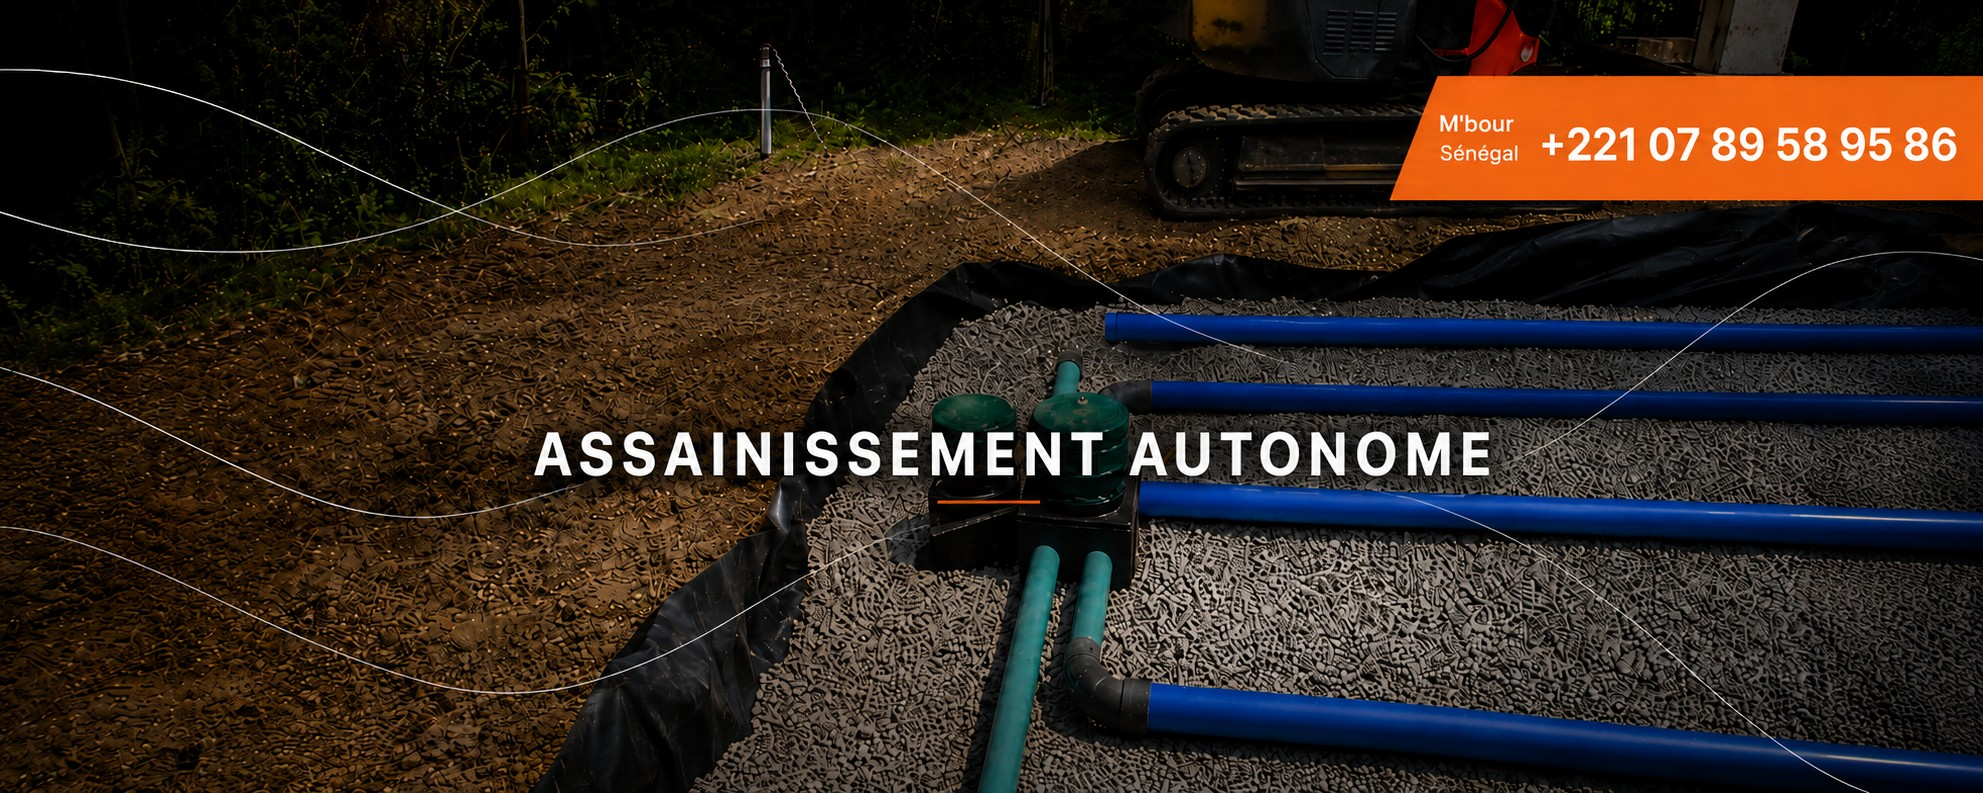
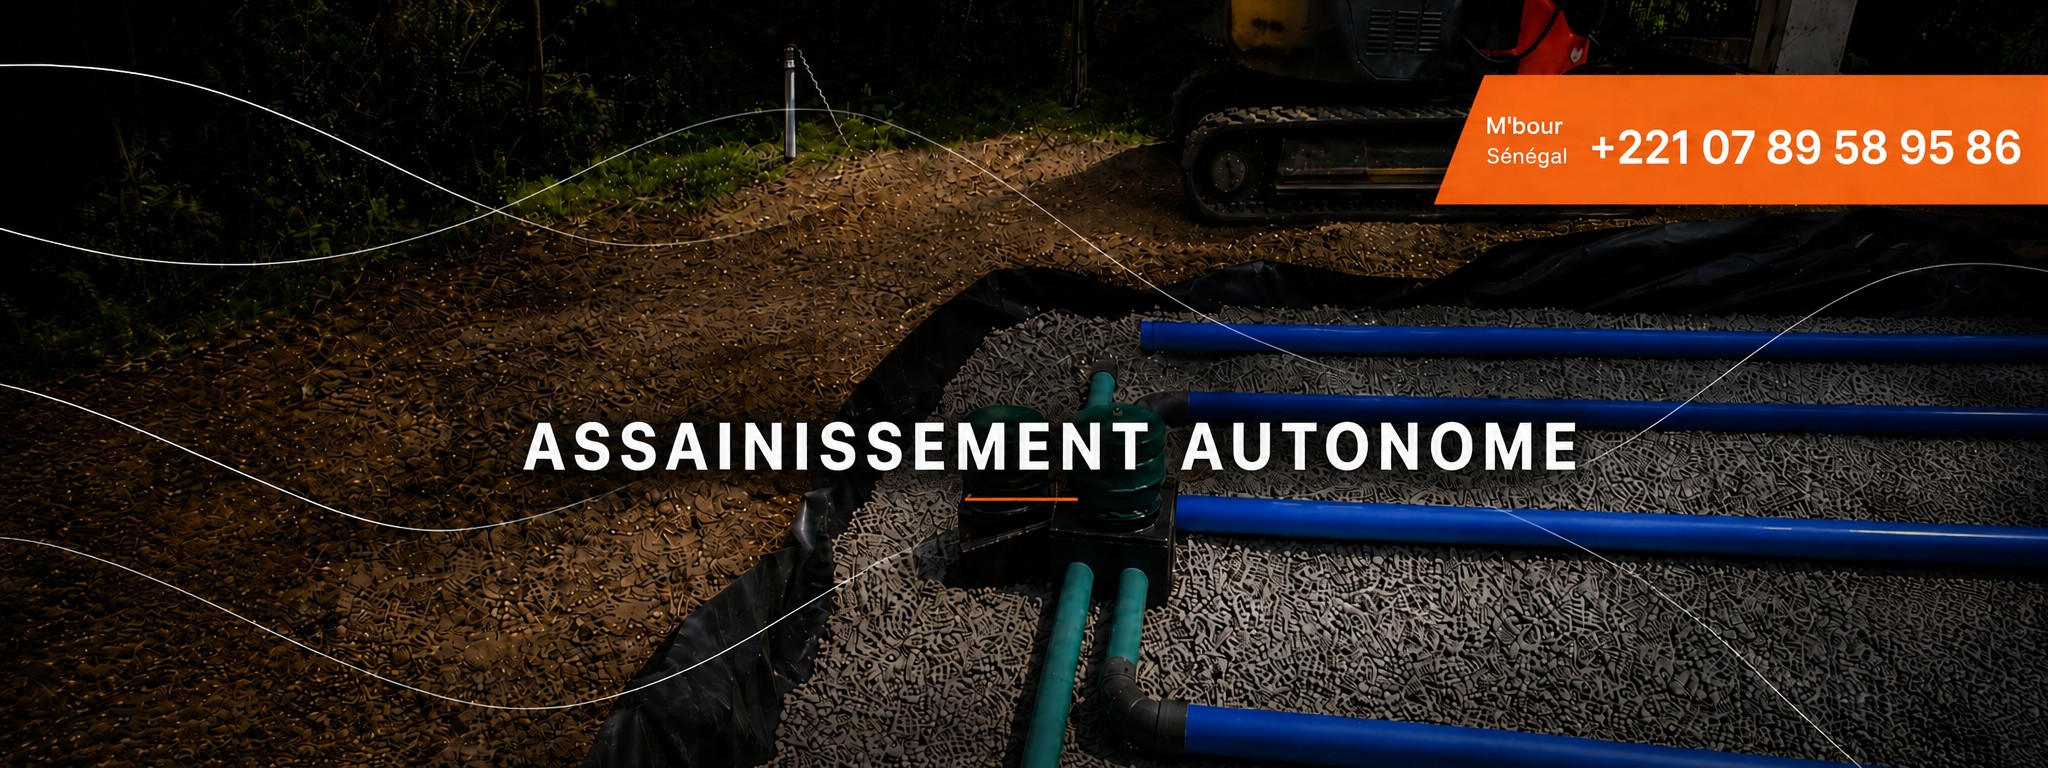
Add files via upload

diff --git a/style.css b/style.css
@@ -1483,3 +1483,16 @@ body:not(.prest-page):not(.contact-page):not(.actualites-page):not(.legal-page) 
     min-height: 520px !important;
   }
 }
+/* Bulle Coordonnées — page contact */
+.contact-page .contact-info__block .section-kicker {
+  display: flex;
+  width: fit-content;
+  margin: 0 auto 22px;
+  padding: 0 24px;
+  min-height: 44px;
+  align-items: center;
+  justify-content: center;
+  font-size: 0.9rem;
+  font-weight: 900;
+  letter-spacing: 0.12em;
+}

diff --git a/irrigation.html b/irrigation.html
@@ -14,7 +14,7 @@
 <body class="prest-page service-page-irrigation">
 
   <header class="hero-banner">
-    <img src="images/banniere irrigation.png" alt="Bannière irrigation HYDREAUPRO">
+    <img src="images/banniere-irrigation-1920x720.webp" alt="Bannière irrigation HYDREAUPRO">
   </header>
 
   <nav class="site-header" aria-label="Navigation principale">